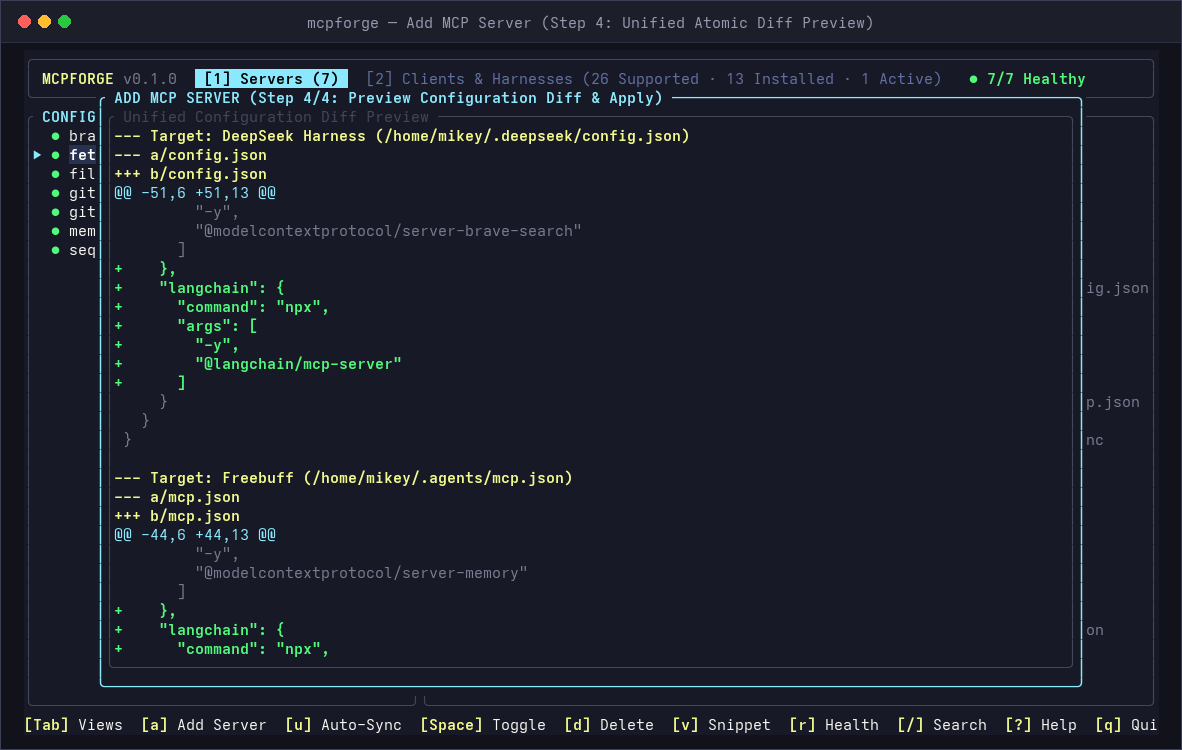
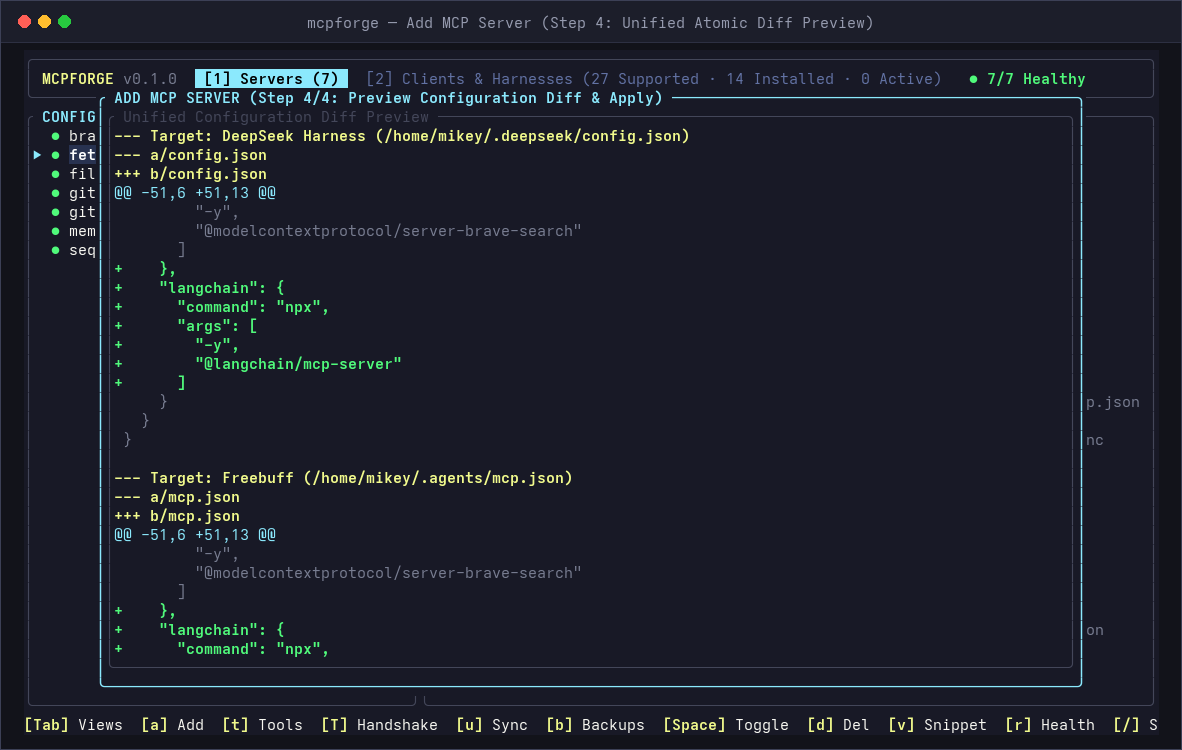
docs: update README with Pi adapter, Raspberry Pi installation, and new screenshots

diff --git a/crates/mcpforge/src/bin/screenshots.rs b/crates/mcpforge/src/bin/screenshots.rs
@@ -175,5 +175,45 @@ fn main() -> Result<()> {
     dump_frame(&mut app, width, height, "screenshot_delete_modal.json")?;
     println!("Captured screenshot_delete_modal.json");
 
+    // 6. Interactive Schema Form Builder
+    app.delete_state = None;
+    app.current_view = CurrentView::ToolExplorer;
+    let schema = serde_json::json!({
+        "type": "object",
+        "properties": {
+            "thought": { "type": "string", "description": "Your current thinking step" },
+            "nextThoughtNeeded": { "type": "boolean" },
+            "thoughtNumber": { "type": "integer", "minimum": 1 },
+            "totalThoughts": { "type": "integer", "minimum": 1 }
+        },
+        "required": ["thought", "nextThoughtNeeded", "thoughtNumber", "totalThoughts"]
+    });
+    let form_fields = mcpforge::app::init_form_fields_from_schema(Some(&schema));
+    app.tool_explorer_state = Some(mcpforge::app::ToolExplorerState {
+        server_id: "sequentialthinking".to_string(),
+        tools: vec![mcp_core::protocol::ToolDefinition {
+            name: "sequentialthinking".to_string(),
+            description: Some("Dynamic sequential thinking process for reasoning through complex tasks".to_string()),
+            input_schema: Some(schema),
+        }],
+        selected_index: 0,
+        is_loading: false,
+        execution_result: None,
+        error_message: None,
+        params_input: "{}".to_string(),
+        is_editing_params: false,
+        is_form_mode: true,
+        form_fields,
+        form_active_index: 0,
+    });
+    dump_frame(&mut app, width, height, "screenshot_form_builder.json")?;
+    println!("Captured screenshot_form_builder.json");
+
+    // 7. Visual Backup Manager & Diff Inspector
+    app.tool_explorer_state = None;
+    app.open_backup_manager();
+    dump_frame(&mut app, width, height, "screenshot_backup_modal.json")?;
+    println!("Captured screenshot_backup_modal.json");
+
     Ok(())
 }

diff --git a/scripts/render_screenshots.py b/scripts/render_screenshots.py
@@ -92,3 +92,5 @@ render_frame("screenshot_clients.json", "assets/screenshots/clients.png", "mcpfo
 render_frame("screenshot_wizard_catalog.json", "assets/screenshots/catalog.png", "mcpforge — Add MCP Server (Step 2: Curated 110-Server Catalog)")
 render_frame("screenshot_wizard_diff.json", "assets/screenshots/diff_preview.png", "mcpforge — Add MCP Server (Step 4: Unified Atomic Diff Preview)")
 render_frame("screenshot_delete_modal.json", "assets/screenshots/removal_modal.png", "mcpforge — Remove MCP Server Modal")
+render_frame("screenshot_form_builder.json", "assets/screenshots/form_builder.png", "mcpforge — Interactive Schema-Guided Form Builder ([f] key)")
+render_frame("screenshot_backup_modal.json", "assets/screenshots/backup_manager.png", "mcpforge — Configuration Snapshots & Diff Inspector ([b] key)")

diff --git a/README.md b/README.md
@@ -2,14 +2,14 @@
 
 <p align="center">
   <strong>The TUI that discovers every MCP client on your machine and syncs them all.</strong><br>
-  <em>One native binary. 26 client adapters. 110 audited servers. Zero config fragmentation.</em>
+  <em>One native binary. 27 client adapters. 110 audited servers. Zero config fragmentation.</em>
 </p>
 
 <p align="center">
   <img src="https://github.com/nordicnode/mcpforge/actions/workflows/ci.yml/badge.svg" alt="CI" />
   <img src="https://img.shields.io/badge/Rust-2021_Edition-orange.svg?style=flat-square&logo=rust" alt="Rust 2021" />
   <img src="https://img.shields.io/badge/License-MIT-blue.svg?style=flat-square" alt="License MIT" />
-  <img src="https://img.shields.io/badge/Supported_Clients-26_Harnesses-purple.svg?style=flat-square" alt="26 Supported Clients" />
+  <img src="https://img.shields.io/badge/Supported_Clients-27_Harnesses-purple.svg?style=flat-square" alt="27 Supported Clients" />
   <img src="https://img.shields.io/badge/Curated_Catalog-110_Audited_Servers-green.svg?style=flat-square" alt="110 Audited Servers" />
   <img src="https://img.shields.io/badge/Architecture-Modular_Workspace-blueviolet.svg?style=flat-square" alt="Modular Workspace" />
 </p>
@@ -43,9 +43,10 @@ As the Model Context Protocol ecosystem has grown, every AI client, autonomous a
 - `~/.codex/config.toml` (Codex - TOML)
 - `~/.grok/config.toml` (Grok Build - TOML)
 - `~/.config/opencode/opencode.jsonc` (OpenCode - JSONC)
-- Plus VS Code, Cursor, Windsurf, Zed, JetBrains, Continue.dev, Cline, and 13 others.
+- `~/.pi/agent/mcp.json` (Pi Coding Agent)
+- Plus VS Code, Cursor, Windsurf, Zed, JetBrains, Continue.dev, Cline, and 14 others.
 
-**MCPForge** eliminates this fragmentation. Built in Rust with a fast, zero-flicker [Ratatui](https://ratatui.rs) terminal UI, MCPForge gives you an interactive command center to inspect live client processes, provision audited MCP servers, verify schema drift, and sync configurations across all 26 clients simultaneously.
+**MCPForge** eliminates this fragmentation. Built in Rust with a fast, zero-flicker [Ratatui](https://ratatui.rs) terminal UI, MCPForge gives you an interactive command center to inspect live client processes, provision audited MCP servers, verify schema drift, and sync configurations across all 27 clients simultaneously.
 
 ---
 
@@ -55,7 +56,7 @@ As the Model Context Protocol ecosystem has grown, every AI client, autonomous a
 | :--- | :---: | :---: | :---: | :---: | :---: |
 | **Interface** | **Interactive TUI + Scriptable CLI** | Pure CLI | Pure CLI | Pure CLI | Pure CLI |
 | **Runtime** | **Single native binary (Rust, zero Node.js)** | Node.js / npm | Node.js / npm | Python 3 | Node.js / npm |
-| **Supported Clients** | **26 Clients (JSON, JSONC, YAML, TOML)** | 2 Clients | 3 Clients | 1 Client | 2 Clients |
+| **Supported Clients** | **27 Clients (JSON, JSONC, YAML, TOML)** | 2 Clients | 3 Clients | 1 Client | 2 Clients |
 | **Client Process Discovery** | **Live OS process watcher + scanner** | None (manual) | None | None | None |
 | **Format Preservation** | **Non-destructive AST round-tripping** | Clobbers root keys | Overwrites config | Specific format only | Drops unmanaged keys |
 | **Comment Resilience** | **Zero-loss JSONC comment tolerance** | Crashes / strips | Strips comments | N/A | Strips comments |
@@ -71,9 +72,13 @@ As the Model Context Protocol ecosystem has grown, every AI client, autonomous a
 ## Key Features
 
 - **Keyboard-Driven Terminal UI**: High-speed, zero-flicker TUI with instant filtering, intuitive split views, and vim/arrow navigation.
-- **26 First-Class Client Adapters**: Native read and write support for autonomous agents, terminal CLIs, full IDEs, and chat desktop clients across JSON, JSONC, YAML, and TOML.
+- **27 First-Class Client Adapters**: Native read and write support for autonomous agents, terminal CLIs, full IDEs, and chat desktop clients across JSON, JSONC, YAML, and TOML.
+- **Interactive Schema-Guided Form Builder (`[f]` key)**: Synthesizes input form fields directly from tool JSON schemas with boolean toggles and type validation.
+- **Fullscreen Tool Output Inspector & Clipboard Exporter (`[v]` / `[c]`)**: Fullscreen scrollable pager with line numbering and native OSC 52 clipboard export.
+- **Visual In-TUI Backup Snapshots & Diff Inspector (`[b]` key)**: Browse automatic backup snapshots, view colorized unified diffs against current disk files, and restore in 1 click (`[r]`).
+- **First-Class Raspberry Pi Support**: Official pre-compiled releases for ARM64 (Raspberry Pi 4 & 5) and ARMv7 (Raspberry Pi 2 & 3).
 - **110+ Audited MCP Servers with Provenance**: Curated, production-tested MCP servers with upstream source URLs, maintainer attribution, and verification audit timestamps.
-- **Automated Schema Drift Verification**: Built-in schema validator (`mcpforge verify`) detects syntax corruption, missing properties, or format shifts across all 26 clients in local environments and CI pipelines.
+- **Automated Schema Drift Verification**: Built-in schema validator (`mcpforge verify`) detects syntax corruption, missing properties, or format shifts across all 27 clients in local environments and CI pipelines.
 - **Golden-Tested Format Preservation**: Rigorous golden-file round-trip tests and key-preservation property tests guarantee that modifying servers never drops unmanaged configuration keys, comments, or settings.
 - **Comment-Tolerant JSON Parsing**: Comment-resilient parser gracefully reads configs containing `//` or `/* */` comments and trailing commas without configuration loss.
 - **Automated Rollback & Backup Engine**: Every edit automatically creates timestamped backup snapshots. Roll back any client instantaneously with `mcpforge rollback [--client <id>]` or inspect differences with `mcpforge backup diff`.
@@ -133,13 +138,32 @@ Safely decommission servers from all clients at once, or use the interactive che
 
 ---
 
+### 6. Interactive Schema-Guided Form Builder (`[f]` Key)
+Invoke any tool without handwriting JSON. The form builder auto-synthesizes input forms directly from JSON schemas with real-time field validation, boolean toggles, and enum selectors.
+
+<p align="center">
+  <img src="assets/screenshots/form_builder.png" alt="Interactive Schema-Guided Form Builder" width="95%" />
+</p>
+
+---
+
+### 7. Configuration Snapshots & Diff Inspector (`[b]` Key)
+Inspect automatic backup snapshots taken before every mutation. View colorized unified diffs against live disk configs, and instantly restore previous versions with 1 click (`[r]`).
+
+<p align="center">
+  <img src="assets/screenshots/backup_manager.png" alt="Configuration Snapshots & Diff Inspector" width="95%" />
+</p>
+
+---
+
 ## Supported Clients
 
-MCPForge provides native, format-preserving adapters for **26 distinct AI clients and harnesses**:
+MCPForge provides native, format-preserving adapters for **27 distinct AI clients and harnesses**:
 
 | Category | Client / Harness | Config Path | Format | Status |
 | :--- | :--- | :--- | :--- | :--- |
 | **Agent** | **Freebuff Desktop & CLI** | `~/.agents/mcp.json` | JSON | Supported |
+| **Agent** | **Pi Coding Agent** | `~/.pi/agent/mcp.json` | JSON | Supported |
 | **Agent** | **DeepSeek Harness** | `~/.deepseek/config.json` | JSON | Supported |
 | **Agent** | **Goose** | `~/.config/goose/config.yaml` | YAML | Supported |
 | **Agent** | **Hermes Agent** | `~/.hermes/config.yaml` | YAML | Supported |
@@ -172,11 +196,19 @@ MCPForge provides native, format-preserving adapters for **26 distinct AI client
 
 ### Pre-compiled Binaries (Recommended)
 
-Pre-built binaries for Linux (`x86_64`), macOS (`Apple Silicon & Intel`), and Windows (`x64`) are available on the [GitHub Releases page](https://github.com/nordicnode/mcpforge/releases).
+Pre-built binaries for Linux (`x86_64`), Raspberry Pi (`ARM64` & `ARMv7`), macOS (`Apple Silicon & Intel`), and Windows (`x64`) are available on the [GitHub Releases page](https://github.com/nordicnode/mcpforge/releases).
 
 ```bash
-# Download and install the latest Linux binary
+# Linux (x86_64)
 curl -fsSL https://github.com/nordicnode/mcpforge/releases/latest/download/mcpforge-x86_64-unknown-linux-gnu.tar.gz | tar -xz
+sudo mv mcpforge /usr/local/bin/
+
+# Raspberry Pi (64-bit Pi 4 & Pi 5 - ARM64)
+curl -fsSL https://github.com/nordicnode/mcpforge/releases/latest/download/mcpforge-aarch64-unknown-linux-gnu.tar.gz | tar -xz
+sudo mv mcpforge /usr/local/bin/
+
+# Raspberry Pi (32-bit Pi 2 & Pi 3 - ARMv7)
+curl -fsSL https://github.com/nordicnode/mcpforge/releases/latest/download/mcpforge-armv7-unknown-linux-gnueabihf.tar.gz | tar -xz
 sudo mv mcpforge /usr/local/bin/
 ```
 
